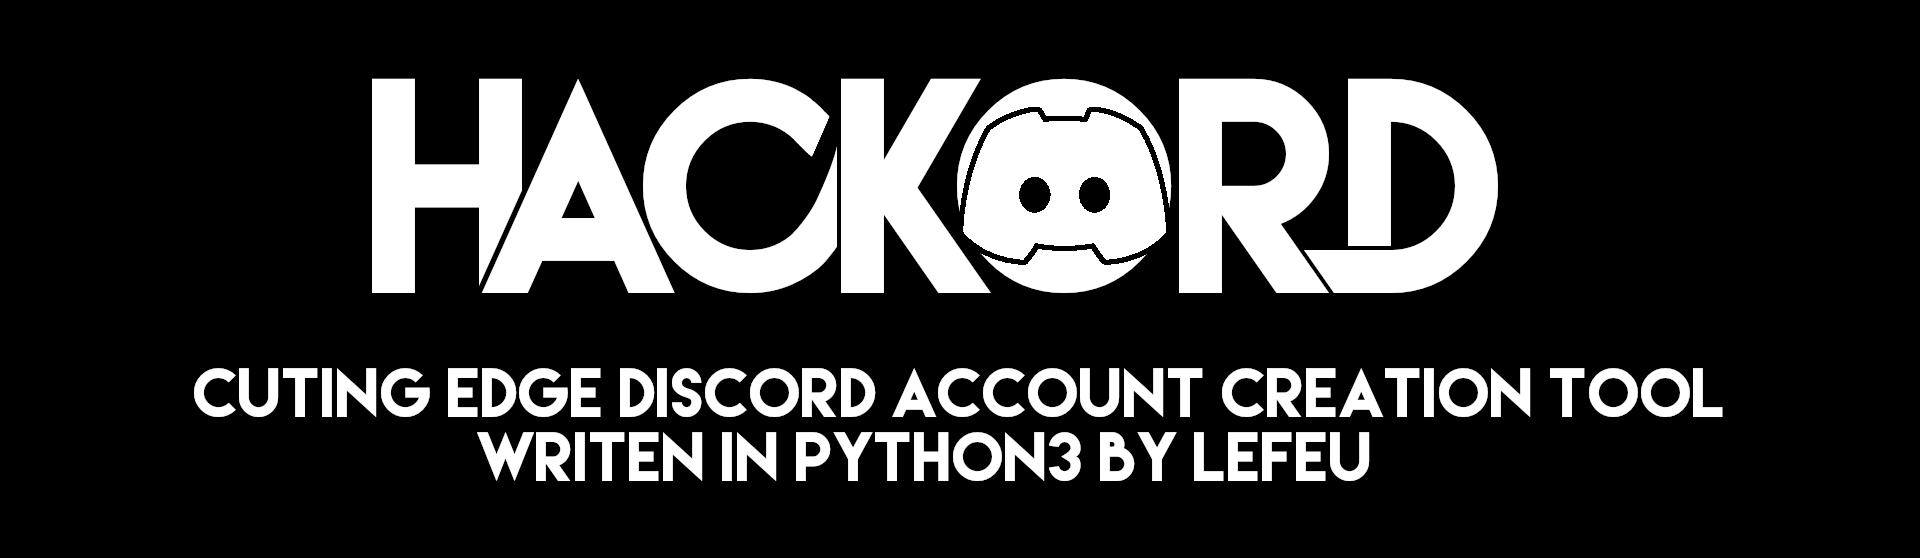
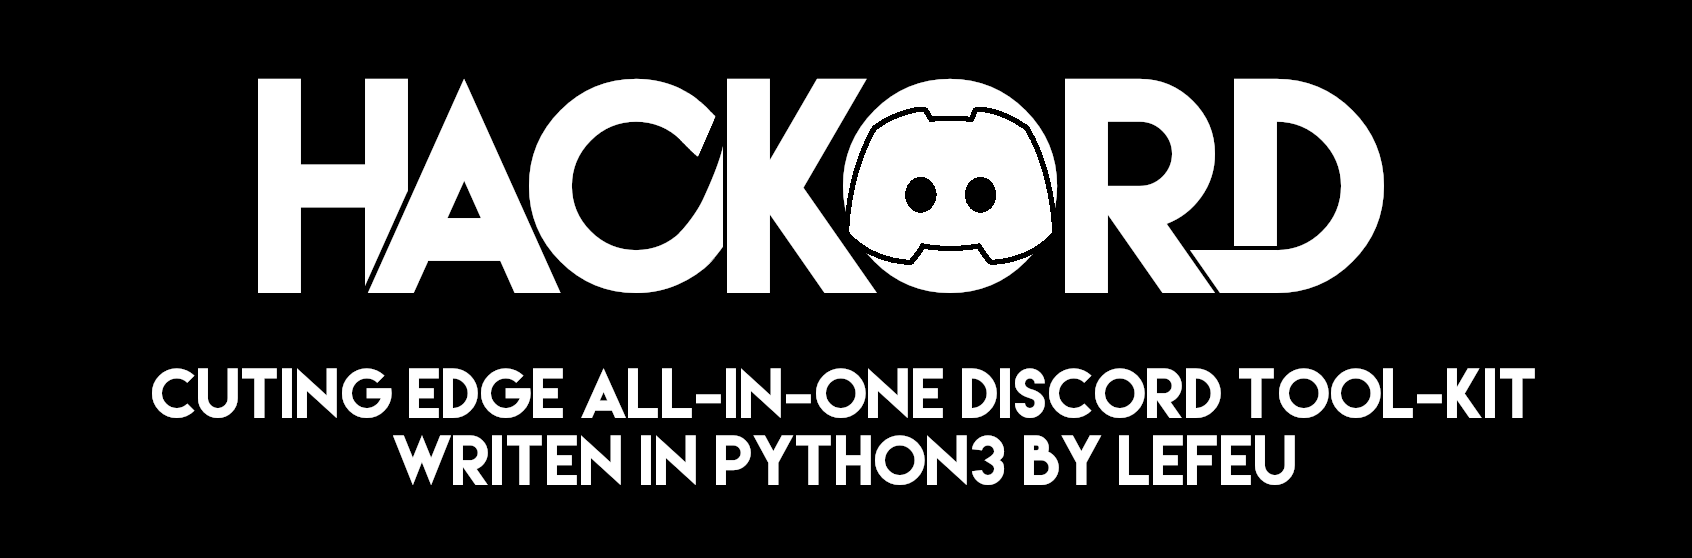
Updates README.md

Changed region(s): [[0.1537, 0.1219, 0.8298, 0.5484], [0.0922, 0.6398, 0.922, 0.8835]]

diff --git a/README.md b/README.md
@@ -1,47 +1,51 @@
 # **HACKORD**
-![HACKORD - CUTTING EDGE DISCORD ACCOUNT CREATION TOOL - WRITEN IN PYTHON3 BY LEFEU (We were unable to load banner, \*shrug\*)](./README_images/hackord_banner.png)
+![HACKORD - CUTTING EDGE DISCORD ACCOUNT CREATION TOOL - WRITEN IN PYTHON3 BY LEFEU (We were unable to load banner, \*shrug\*)](./README_images/hackord_banner.png)  
 ![Hackord Version](https://img.shields.io/github/v/release/WieszakWare/Hackord?color=red&include_prereleases&label=HACKORD%20VERSION&style=for-the-badge)
 [![Python Version](https://img.shields.io/badge/PYTHON%20VERSION-3.10.4-blue.svg?style=for-the-badge)](https://www.python.org/downloads/release/python-3104/)
-[![Downloads](https://img.shields.io/github/downloads/WieszakWare/Hackord/total?label=Downloads&style=for-the-badge)](https://github.com/WieszakWare/Hackord/releases/latest)
 [![Stars](https://img.shields.io/github/stars/wieszakware/hackord?label=Stars&style=for-the-badge)](https://github.com/wieszakware/hackord/stargazers)
-[![Forks](https://img.shields.io/github/forks/wieszakware/hackord?label=Forks&style=for-the-badge)](https://github.com/wieszakware/hackord/network/members)
-
-
-## Need help? [Join our Discord Server!](https://discord.gg/KCqrbVgSBF) (but read [Reporting Bugs](#reporting-bugs))
-
-#### WARNING: Even that we are on version V2, project is under heavy development and Hackord is not considered operational for now. If you want to run it, we expect some knowwlage in Python3 and some will to start using it. Even then it's not recommended as a lot of features simply does not work and have to be completly reweriten or replaced with something else.
 
 ## **FAQ**
 **Q:** What is Hackord?  
-**A:** Hackord is automation tool for creation of discord account. 
+**A:** Hackord is a tool-kit for automating actions like creating accounts, checking them, joining servers etc... 
 
-**Q:** Why this even exists? I can create accounts manually.  
-**A:** Creating accounts manually is absolute hassle, and you can be heavily rate limited by discord or sometimes even blocked for several days! Hackord aims to automate this process and also to bypass discord's limits.
+**Q:** Why is it so buggy and lacks so many features?  
+**A:** Currently Hackord is in active development and because it's a toolkit you can't expect *everything* to be *perfect*. With some time it will became more robust and feature rich. Just give it time.
 
 **Q:** How can I be sure that it's not a virus?  
-**A:** As now Hackord V2 is propiretery you can't be sure, but we are not blocking you from running it inside vm. So if you don't trust us you can just do that.
+**A:** So first let me give you a timeline.
+ - When this project was launched (V1 and betas) it was open source.
+ - With Hackord V2, owner of Hackord has decided to take it close source.
+ - Versions V2.0.0 - V2.0.3 are closed source.
+ - From V2.0.4 to the future Hackord is going to be open source.  
 
-**Q:** Can you add feature `x` and `y`.  
-**A:** If you want to propose some features you can join our [discord server](https://discord.com/invite/KCqrbVgSBF) and discuss them in [leafuware-suggestions](https://discord.com/channels/943896316373766174/1034132943284748388).
+And now that Hacord is open sorce you can have a look your self into the code, if you don't trust our binaries you can always build it yourself or just run from the source. Currently we are not providing any build instructions as we expect some computer literacy from you. But if you are lazy you can just fork this repository and run github actions as we have build scripts prepared for our project.
 
-**Q:** Hackord stopped working and give me some techical mumbo jumbo, **how the f\*\*\* am I supposed to get it to work?**  
-**A:** Please first read [how to report bugs](#reporting-bugs). It contains list of what information we need in order to fix a bug and also wwhat you need to know before opening ticKet/issue.
+**Q:** Can you add feature **x**, **y** and fix **z**.  
+**A:** Unfortunally currently we don't have too much time to develop Hackord and because of that we may not fix a bug or add proposed features as our priority is to at lease add all already planned features. And after that start polishing it. But you are free to join our [discord server](https://discord.com/invite/KCqrbVgSBF) and discouss about Hackord and other projects.
+
+**Q:** **HELP HACKORD DOESN'T WORK AND HAVE ME SOME GOFFY AS FUCK SHIT, HOW TO FUCK AM I SUPPOSED TO GET IT UP AND RUNNING?!?!?!?!?!?!?!?!**  
+**A:** Currently there's no documentation as project is in early development and some things can change overnight so for now you will have to figure it out yourself as Hackord is not currently plug&play tool and never will be. If you encountered some bug/corner case **that's not your fault**, please read [how to report bugs](#reporting-bugs). 
+
+**Q:** Can I modify / redistribute this project?  
+**A:** Short answer: [Licensed under GPL V2](https://www.gnu.org/licenses/old-licenses/gpl-2.0.txt)  
+Long  answer: You are free to distribute and modify this program as long as it's licensed under GPL V2.0 and also properly credit our project.
 
 # **Reporting bugs**
 ## What we need to know:
 
 - OS/Version (eg Windows 10/Arch Linux)  
-    Note: If you are using linux please provide what terminal you are using, kernel and additional modification to system as they might be important.
-- Full Hackord console output **(READ [HACKORD CONSOLE OUTPUT WARNING](#hackord-console-output-warning))**
+    Note: If you are using linux please provide distribution, kernel, graphical environment, terminal and shell.
+- Full Hackord output **(READ [HACKORD CONSOLE OUTPUT WARNING](#hackord-console-output-warning))**
 - How to reproduce bug (what have you done).
-- Observed behaivor (what you have saw).
-- Excepted behaivor (what really happened).
+- Observed behavior (what you have saw).
+- Excepted behavior (what really happened).
 
 ## Things that you need to know:
- - We are assuming that you are using newest stable version of Hackord. We are not accepting issues if they were preformed on outdated version of Hackord. Please update it first and then check if issue still presists.
- - If you just open issue/ticket and don't provide us with the informations that we need or wait for us to ask you to provide specific information you are just going to get banned.
-### **HACKORD CONSOLE OUTPUT WARNING**
-**WARNING: Hackord may display a lot of sensitive information and while tickets are private WE ARE NOT RENSPONSIBLE FOR ANY POTENTIAL KEYS/TOKENS BEING LEAKED AND IT'S YOUR RENSPOSIBILITY TO BLACK THOSE OUT.**
+ - We are assuming that you are using newest stable version of Hackord. We are not accepting issues if they were preformed on outdated version of Hackord. Please update it first and then check if you can still reproduce issue.
+ - We are not going to "*fish*" for the information. If you don't provide information we need when you open issue, it's just going to get closed.
+
+## **HACKORD CONSOLE OUTPUT WARNING**
+### **Hackord may or may not display a lot of sensitive information or data that is being generated by it. All issues opened are public and any edits are recorded and can be view. We take no responsibility for leaked data. It's in your business to black out information that you don't want other to see.**
  
 &nbsp;  
 # **!!! DISCLAIMER !!!**
